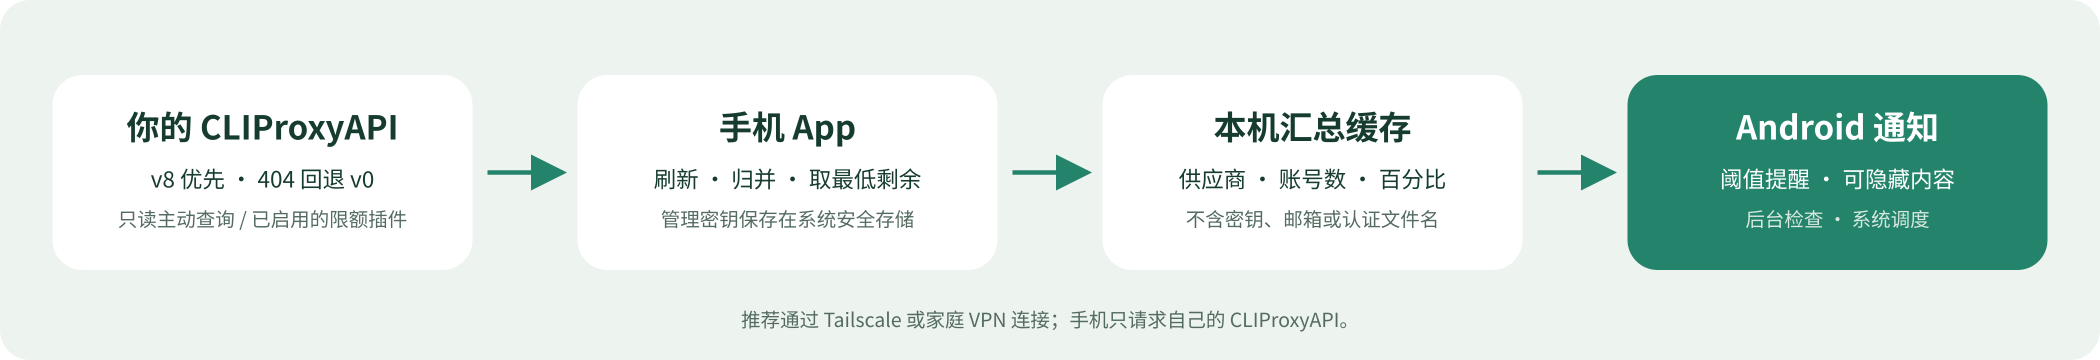
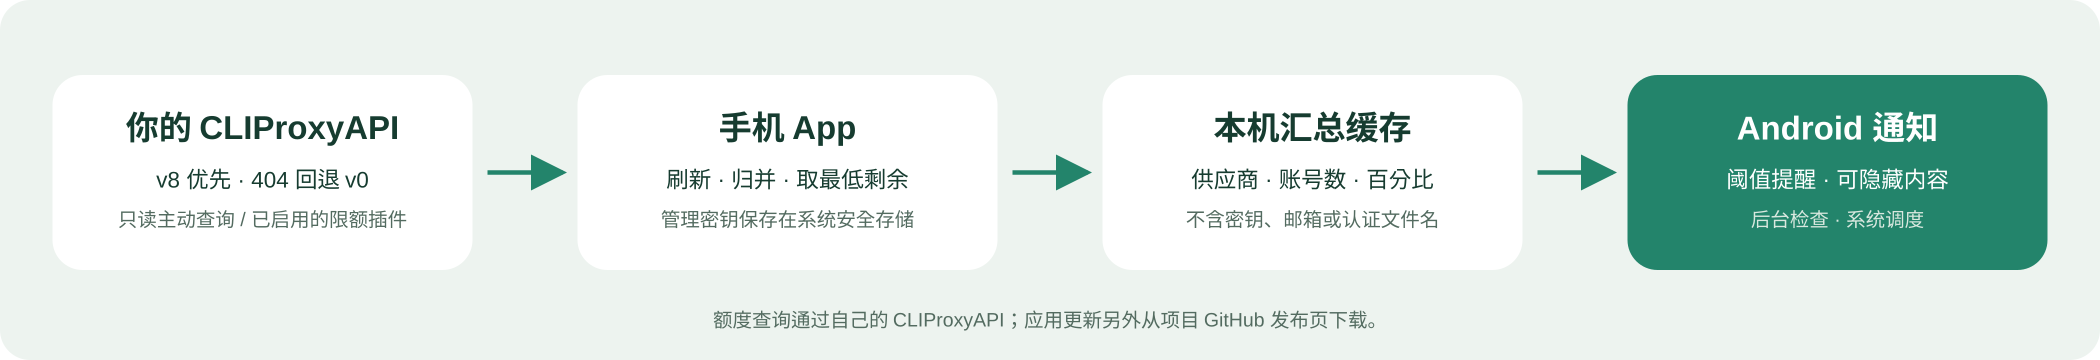
Refresh GitHub overview and illustrations for v0.1.8

diff --git a/scripts/generate_readme_images.py b/scripts/generate_readme_images.py
@@ -38,7 +38,7 @@ parts.append('<svg xmlns="http://www.w3.org/2000/svg" width="1400" height="800" 
 parts.append('<g font-family="Noto Sans CJK SC, PingFang SC, Microsoft YaHei, sans-serif">')
 rect(0, 0, 1400, 800, '#edf3ef', 20)
 text(45, 58, 'CLIProxy 限额', 30, weight=700)
-text(45, 88, '自己的服务 · 最低剩余 · 手机查看 · 消耗提醒', 16, '#536b60')
+text(45, 88, '主动查额度 · 定时刷新 · 百分比提醒 · 应用内更新', 16, '#536b60')
 text(1110, 64, '界面示意 / 示例数据', 14, '#536b60')
 
 x = 45
@@ -56,7 +56,7 @@ text(x + 24, 615, '更多  ⌄', 14)
 text(x + 24, 652, '端口与完整地址在「更多」中设置', 11, '#536b60')
 
 x = 380
-phone(x, '更新于 10-02 12:00', '02')
+phone(x, '更新于 10-07 09:41', '02')
 text(x + 24, 247, '剩余，心中有数。', 24, weight=700)
 text(x + 24, 276, '按供应商查看 · 多账号取最低剩余', 11, '#536b60')
 for i, (name, symbol, count, percent) in enumerate([('GPT', 'G', 2, 5), ('Claude', '✳', 3, 60), ('Grok', '𝕏', 1, 42), ('Other', 'O', 1, None)]):
@@ -93,23 +93,37 @@ text(x + 165, 578, '$105.00', 18, weight=600)
 text(x + 24, 647, '不同周期分开展示；绝对额度按接口返回', 10, '#536b60')
 
 x = 1050
-rect(x, 122, 305, 575, '#dfeae2', 28)
-text(x + 22, 165, 'Android 通知', 15, '#536b60')
-rect(x + 17, 206, 271, 145, '#f5f7f5', 24)
-text(x + 35, 238, 'GPT 限额消耗提醒', 15, weight=600)
-text(x + 35, 274, '剩余 35%', 24, weight=700)
-text(x + 35, 306, '较上次基准下降 5 个百分点', 12, '#536b60')
-rect(x + 17, 376, 271, 108, '#f5f7f5', 24)
-text(x + 35, 408, 'CLIProxy 常驻监测', 15, weight=600)
-text(x + 35, 444, 'GPT 35% · Claude 60% · Grok 42%', 12)
-text(x + 22, 537, '默认 5%，可调整提醒阈值', 14, weight=600)
-text(x + 22, 569, '监测开启显示概览，停止后关闭', 13, '#536b60')
-text(x + 22, 599, '立即检查 · 约每 15 分钟计划检查', 11, '#536b60')
-text(x + 22, 629, '普通通知；流体云尚未接入', 12, '#536b60')
-text(x, 735, '04  消耗通知 / 示例效果', 17, weight=600)
+rect(x, 122, 298, 575, '#163c30', 34)
+rect(x + 7, 129, 284, 561, '#f5f7f5', 28)
+rect(x + 107, 138, 84, 19, '#163c30', 10)
+text(x + 25, 152, '9:41', 10, weight=600)
+text(x + 24, 197, '设置', 16, weight=600)
+rect(x + 18, 220, 262, 168, '#ffffff', 14)
+text(x + 32, 248, '限额通知', 15, weight=600)
+text(x + 246, 248, '？', 16, '#536b60')
+text(x + 32, 280, '定时刷新', 13)
+rect(x + 214, 265, 46, 23, '#23846b', 12)
+parts.append(f'<circle cx="{x + 248}" cy="276.5" r="8" fill="white"/>')
+for offset, label, selected in [(32, '15 分钟', True), (109, '30 分钟', False), (186, '60 分钟', False)]:
+    rect(x + offset, 299, 72, 29, '#d9e8df' if selected else '#f5f7f5', 15)
+    text(x + offset + 9, 319, label, 11, weight=600 if selected else 400)
+text(x + 32, 352, '每下降 5 个百分点提醒', 12)
+text(x + 32, 376, '最近后台检查  09:41', 10, '#536b60')
+rect(x + 18, 403, 262, 99, '#ffffff', 14)
+text(x + 32, 432, '应用更新 · v0.1.8', 15, weight=600)
+text(x + 246, 432, '？', 16, '#536b60')
+rect(x + 32, 446, 104, 35, '#d9e8df', 18)
+text(x + 54, 469, '检查更新', 12, weight=600)
+text(x + 24, 531, '达到阈值时的通知示意', 11, '#536b60')
+rect(x + 18, 545, 262, 88, '#dfeae2', 18)
+text(x + 32, 569, 'GPT 限额消耗提醒', 13, weight=600)
+text(x + 32, 595, '剩余 35%', 19, weight=700)
+text(x + 32, 619, '较上次基准下降 5 个百分点', 10, '#536b60')
+rect(x + 110, 675, 78, 4, '#163c30', 2)
+text(x, 735, '04  刷新 / 通知 / 应用更新', 17, weight=600)
 parts.append('</g></svg>')
 (output / 'app-preview.svg').write_text('\n'.join(parts))
-subprocess.run(['rsvg-convert', '-w', '2100', '-o', str(output / 'app-preview.png'), str(output / 'app-preview.svg')], check=True)
+subprocess.run(['rsvg-convert', '-w', '2100', '-o', str(output / 'app-preview-v0.1.8.png'), str(output / 'app-preview.svg')], check=True)
 
 flow = '''<svg xmlns="http://www.w3.org/2000/svg" width="1400" height="240" viewBox="0 0 1400 240">
 <defs><marker id="arrow" markerWidth="8" markerHeight="8" refX="7" refY="4" orient="auto"><path d="M0,0 L8,4 L0,8" fill="#23846b"/></marker></defs>
@@ -120,7 +134,7 @@ flow = '''<svg xmlns="http://www.w3.org/2000/svg" width="1400" height="240" view
 <rect x="735" y="50" width="280" height="130" rx="20" fill="white"/><text x="875" y="93" font-size="22" font-weight="600">本机汇总缓存</text><text x="875" y="125" font-size="15">供应商 · 账号数 · 百分比</text><text x="875" y="151" font-size="13" fill="#536b60">不含密钥、邮箱或认证文件名</text>
 <rect x="1085" y="50" width="280" height="130" rx="20" fill="#23846b"/><text x="1225" y="93" font-size="22" font-weight="600" fill="white">Android 通知</text><text x="1225" y="125" font-size="15" fill="white">阈值提醒 · 可隐藏内容</text><text x="1225" y="151" font-size="13" fill="#d9e8df">后台检查 · 系统调度</text>
 <g stroke="#23846b" stroke-width="3" marker-end="url(#arrow)"><path d="M325 115 H375"/><path d="M675 115 H725"/><path d="M1025 115 H1075"/></g>
-<text x="700" y="218" font-size="13" fill="#536b60">推荐通过 Tailscale 或家庭 VPN 连接；手机只请求自己的 CLIProxyAPI。</text>
+<text x="700" y="218" font-size="13" fill="#536b60">额度查询通过自己的 CLIProxyAPI；应用更新另外从项目 GitHub 发布页下载。</text>
 </g></svg>'''
 (output / 'data-flow.svg').write_text(flow)
 subprocess.run(['rsvg-convert', '-w', '2100', '-o', str(output / 'data-flow.png'), str(output / 'data-flow.svg')], check=True)

diff --git a/README.md b/README.md
@@ -2,13 +2,20 @@
 
 [![Build and test](https://github.com/wkddkw/cliproxy-quota/actions/workflows/ci.yml/badge.svg)](https://github.com/wkddkw/cliproxy-quota/actions/workflows/ci.yml)
 
-只读的 CLIProxyAPI 手机 App，支持 Android 和 iPhone。按供应商归并账号、显示最低剩余额度，点击供应商查看认证文件和周期明细；Android 可按消耗百分比提醒。
+在手机上查看自己的 CLIProxyAPI 账号额度：主动刷新官方限额、按供应商显示最低剩余，点开查看账号与周期明细。Android 支持可选间隔的后台刷新、百分比消耗提醒，以及应用内检查更新、下载和覆盖安装；iPhone 支持额度查看。
 
-![连接设置、供应商总览、认证文件明细和通知示意](docs/images/app-preview.png)
+![v0.1.8：连接、额度总览、周期明细、定时刷新与应用更新示意](docs/images/app-preview-v0.1.8.png)
 
-*界面示意，使用示例数据；通知样式和悬浮效果由手机系统决定。*
+*v0.1.8 界面示意，使用示例数据；通知样式由手机系统决定。说明收进问号弹窗。*
 
 **[下载 Android 预览版 v0.1.8](https://github.com/wkddkw/cliproxy-quota/releases/tag/v0.1.8) · [构建记录](https://github.com/wkddkw/cliproxy-quota/actions) · [接口说明](docs/api-contract.md)**
+
+## 当前版本
+
+- **主动查额度**：下拉刷新查询官方限额，多账号显示最低剩余。
+- **定时刷新**：Android 可选 15 / 30 / 60 分钟，系统后台任务调度，省电限制可能延迟。
+- **百分比提醒**：默认每下降 5 个百分点通知，可自定义阈值；不显示常驻概览。
+- **应用内更新**：设置里检查新版、下载 APK、打开系统安装器；覆盖安装保留配置。
 
 ## 使用
 
